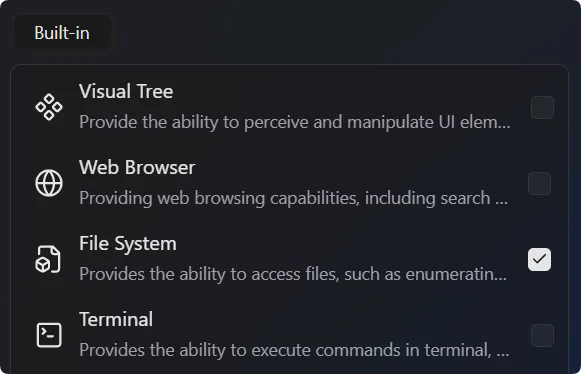
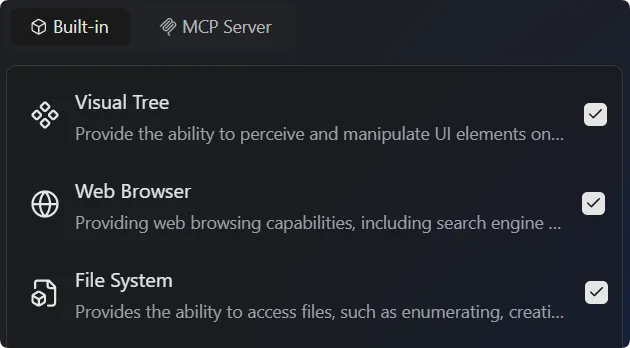
update MCP support

diff --git a/en-US/chat-plugins/index.md b/en-US/chat-plugins/index.md
@@ -11,7 +11,7 @@ next: false
 
 Everywhere's chat plugins allow language models to call external tools to accomplish more complex tasks.
 
-Currently, Everywhere only supports built-in plugins. We are actively developing and will soon launch an MCP-based integration method, so stay tuned.
+Everywhere supports built-in plugins as well as plugins based on the **MCP (Model Context Protocol)**.
 
 ## How to Use Built-in Plugins
 

diff --git a/zh-CN/chat-plugins/index.md b/zh-CN/chat-plugins/index.md
@@ -11,7 +11,7 @@ next: false
 
 Everywhere 的聊天插件允许语言模型调用外部工具来完成更复杂的任务。
 
-目前，Everywhere 仅支持内置插件。我们正在积极开发中，很快就会推出基于 MCP 的接入方式，敬请期待。
+Everywhere 支持内置插件以及基于 **MCP (Model Context Protocol)** 协议的插件。
 
 ## 如何使用内置插件
 
